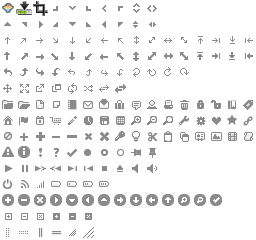
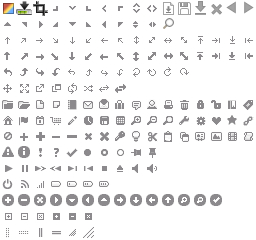
OSCAR-358
Additions and modifications for the oscar ui icons.

Changed region(s): [[0.625, 0.0, 1.0, 0.1167], [0.0, 0.0, 0.0625, 0.0583]]

diff --git a/oscar/src/main/javascript/oscar/theme/default/style.css b/oscar/src/main/javascript/oscar/theme/default/style.css
@@ -1,4 +1,5 @@
 @import url('help.css');
+@import url('oscar-jqui.css');
 
 body {
 	font-family: "Arial", "Helvetica", "Verdana", "sans-serif" !important;
@@ -1893,18 +1894,6 @@ td#oscarLayoutFooterContainer {
 	color: #fff;
 }
 
-.ui-icon-wcs-download {
-	background-image: url("img/oscar-ui-icons_888888_256x240.png")
-		!important;
-	background-position: 0 0;
-}
-
-.ui-icon-crop {
-	background-image: url("img/oscar-ui-icons_888888_256x240.png")
-		!important;
-	background-position: -32px 0px !important
-}
-
 .ui-icon-prepare {
 	background-image: url("img/oscar-ui-icons_888888_256x240.png")
 		!important;
@@ -1947,8 +1936,8 @@ td#oscarLayoutFooterContainer {
 .oscarGuiInfo .ico {
 	background-image:url('img/help-icon.png');
 	background-repeat:no-repeat;
-	width:29px;
-	height:20px;
+	width:32px;
+	height:32px;
 }
 
 .whatsthis-dlg {

diff --git a/oscar/src/main/javascript/oscar/lib/oscar/Control/AdvancedCatalogueSearch.js b/oscar/src/main/javascript/oscar/lib/oscar/Control/AdvancedCatalogueSearch.js
@@ -93,7 +93,7 @@ oscar.Control.AdvancedCatalogueSearch = new oscar.BaseClass(oscar.Control.Catalo
         closediv.append(closeBtn);
         closeBtn.button({
             icons : {
-                primary : 'ui-icon-close'
+                primary : 'ui-icon-oux-close'
             },
             text : false
         }).click($$.proxy(function() {
@@ -135,7 +135,7 @@ oscar.Control.AdvancedCatalogueSearch = new oscar.BaseClass(oscar.Control.Catalo
         var btn = $$("<button></button>").html(oscar.i18n("Search"));
         btn.button({
             icons : {
-                primary : "ui-icon-search"
+                primary : "ui-icon-oux-search"
             },
             text : true
         }).click($$.proxy(this.search, this));

diff --git a/oscar/src/main/javascript/oscar/lib/oscar/Gui/CatalogueResults.js b/oscar/src/main/javascript/oscar/lib/oscar/Gui/CatalogueResults.js
@@ -116,7 +116,7 @@ oscar.Gui.CatalogueResults = new oscar.BaseClass(oscar.Gui, {
         this.$buttons.append(this.$searchInfo);
         this.$next.button({
             icons : {
-                primary : "ui-icon-triangle-1-e"
+                primary : "ui-icon-oux-next"
             },
             text : false,
             disabled : true
@@ -132,7 +132,7 @@ oscar.Gui.CatalogueResults = new oscar.BaseClass(oscar.Gui, {
         
         this.$previous.button({
             icons : {
-                primary : "ui-icon-triangle-1-w"
+                primary : "ui-icon-oux-prev"
             },
             text : false,
             disabled : true

diff --git a/oscar/src/main/javascript/oscar/lib/oscar/Control/SimpleCatalogueSearch.js b/oscar/src/main/javascript/oscar/lib/oscar/Control/SimpleCatalogueSearch.js
@@ -118,7 +118,7 @@ oscar.Control.SimpleCatalogueSearch = oscar.BaseClass(oscar.Control.CatalogueSea
         var scope = this;
         this.button.button({
             icons : {
-                primary : "ui-icon-search"
+                primary : "ui-icon-oux-search"
             },
             text : true
         }).click($$.proxy(function() {

diff --git a/oscar/src/main/javascript/oscar/lib/oscar/Util/Plugin/Download/Options.js b/oscar/src/main/javascript/oscar/lib/oscar/Util/Plugin/Download/Options.js
@@ -71,7 +71,7 @@ oscar.Util.Plugin.Download.Options = new oscar.BaseClass(oscar.Util.Plugin.Downl
         north.append(title_panel);
         close_btn.button({
             icons : {
-                primary : "ui-icon-closethick"
+                primary : "ui-icon-oux-close"
             },
             text : false,
             label : "Close"
